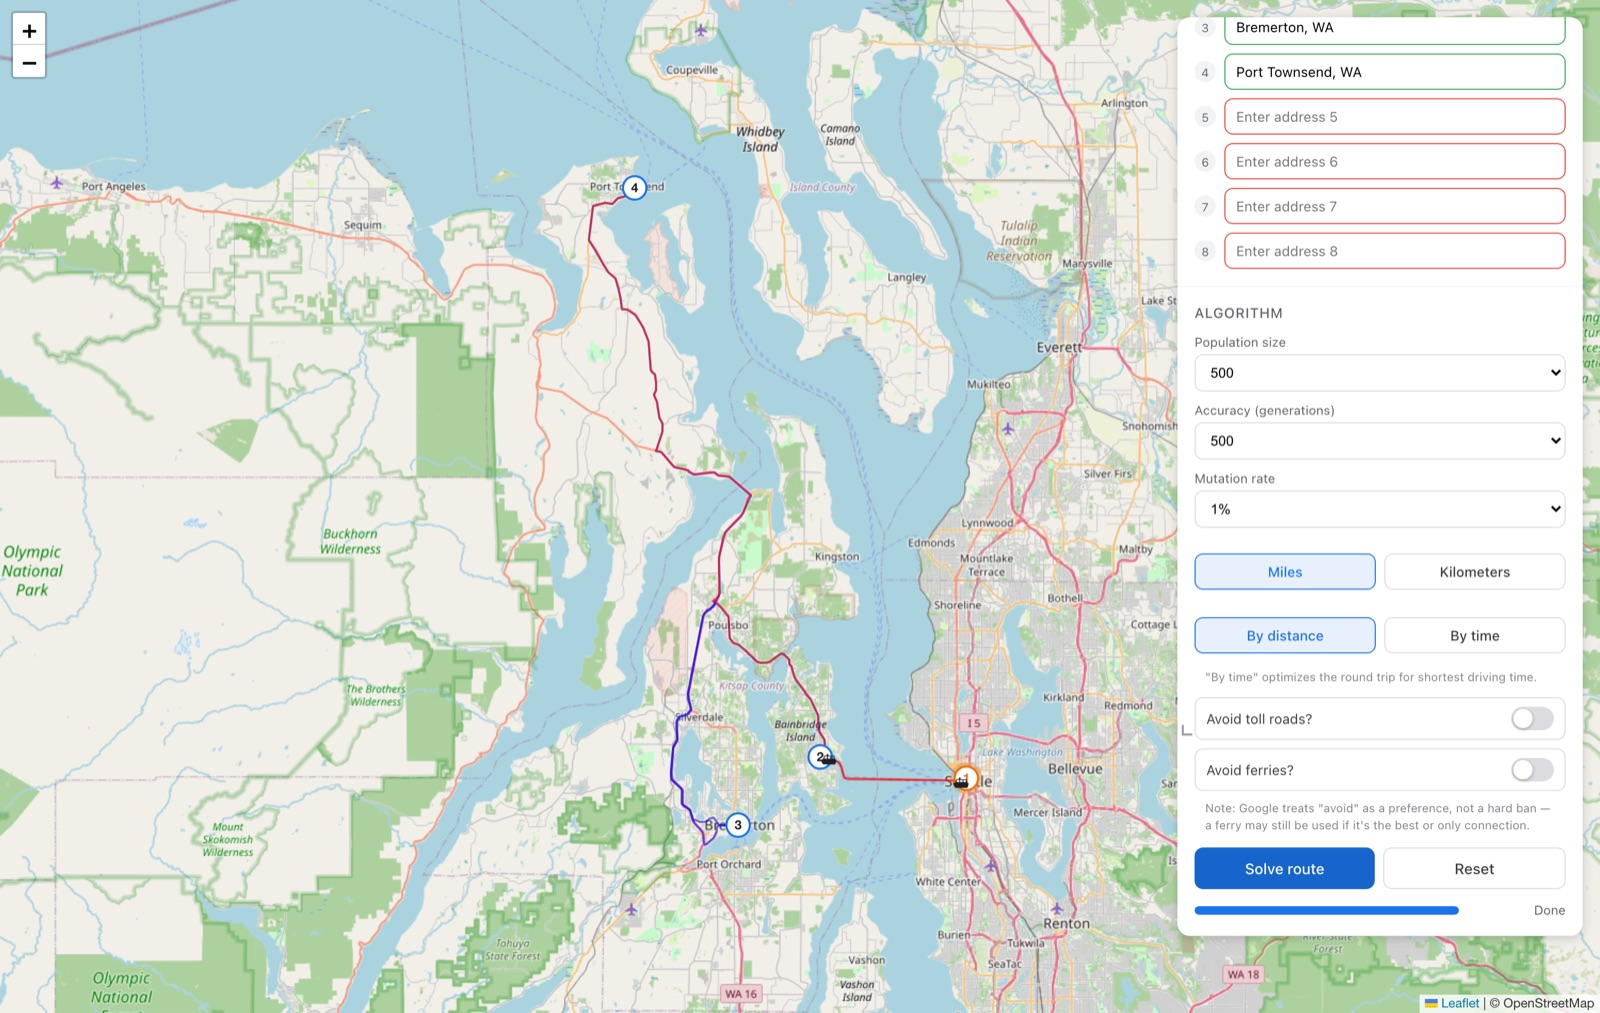
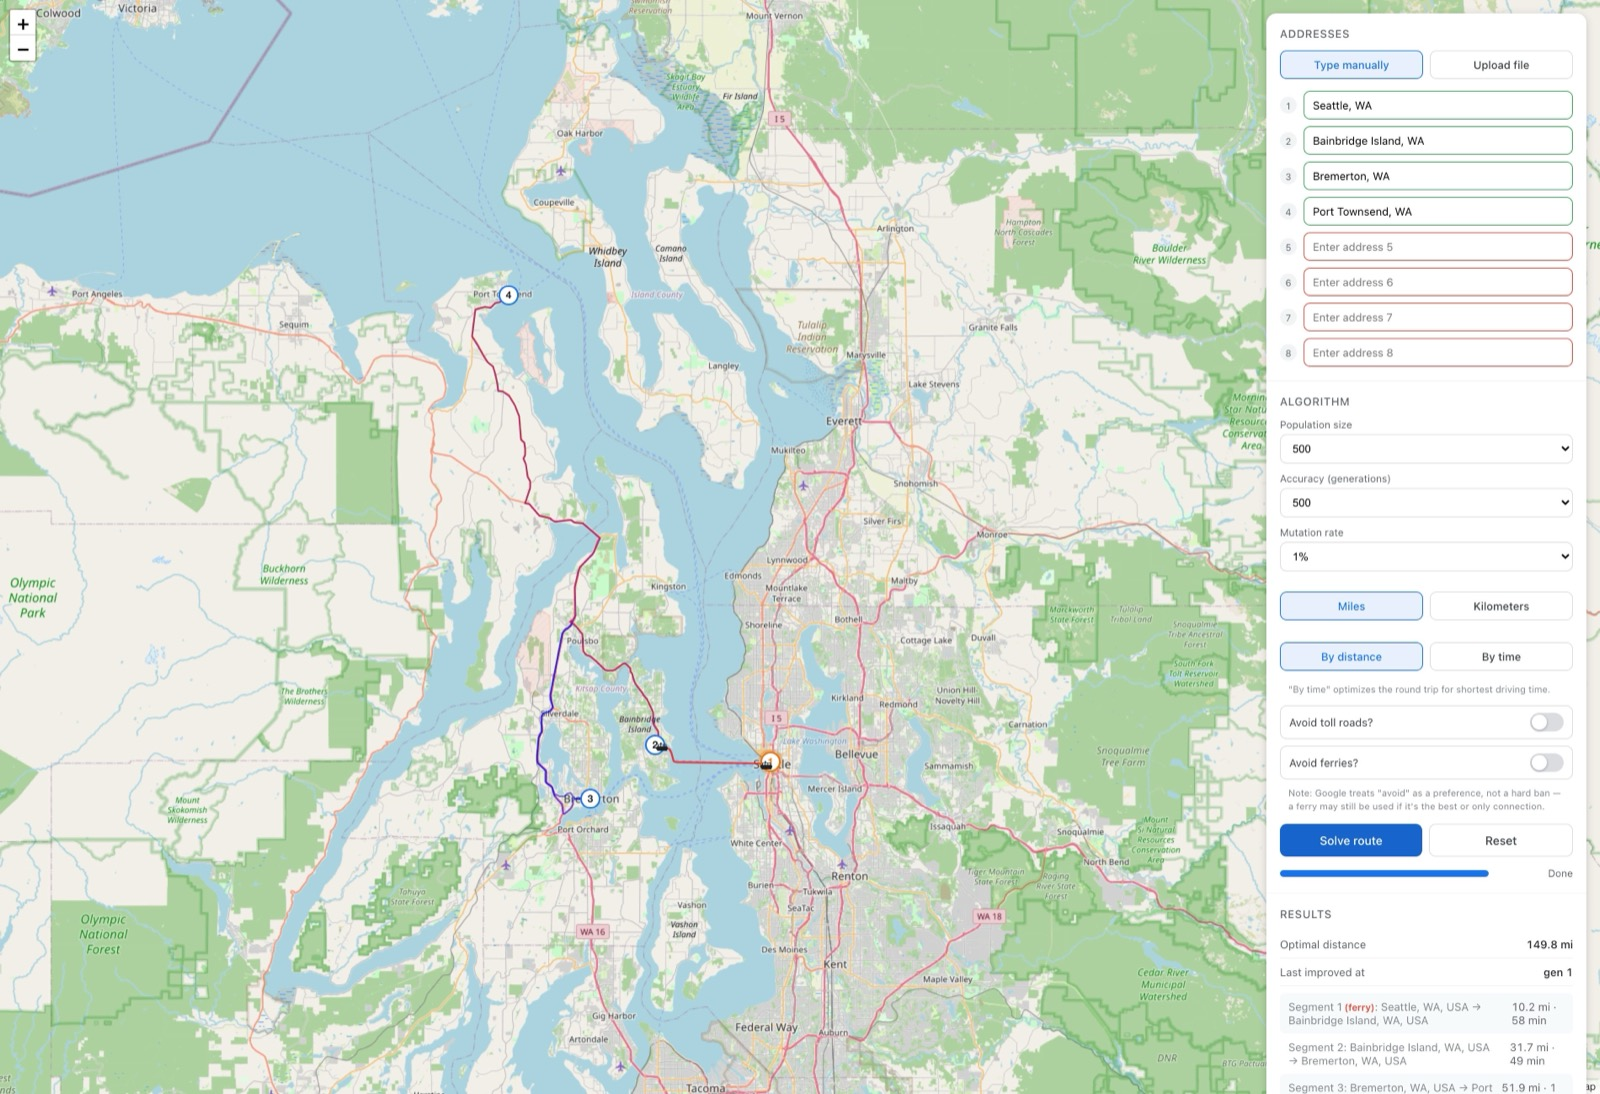
Number city markers by input order instead of tour order; refresh screenshots

diff --git a/server.js b/server.js
@@ -98,6 +98,8 @@ app.post('/addresses', async (request, response) => {
         coords[i] = cities[i].coords;
         if (!cities[i].address) {
             cities.splice(i, 1);
+        } else {
+            cities[i].originalIndex = i;
         }
     }
 
@@ -144,7 +146,7 @@ app.post('/addresses', async (request, response) => {
         let result = await solveTSP(cities, solveMatrix, N, acc, mutationRate, socketID);
         let bestRoute = result.bestOrder;
         bestGen = result.bestGen;
-        orderedCities = bestRoute.map(i => ({ lat: cities[i].coords.lat, lng: cities[i].coords.lng }));
+        orderedCities = bestRoute.map(i => ({ lat: cities[i].coords.lat, lng: cities[i].coords.lng, idx: cities[i].originalIndex }));
         console.log(bestRoute);
 
         // Get path for round trip

diff --git a/public/sketch.js b/public/sketch.js
@@ -353,11 +353,11 @@ function buildCityMarkers(coords, unreachableCoords = [], markStart = true) {
 	let k = 0;
 	for (const p of coords) {
 		if (!p) continue;
-		const cls = 'num-circle' + (markStart && k === 0 ? ' start' : '') + (isUnreachable(p) ? ' unreachable' : '');
+		const cls = 'num-circle' + (markStart && p.idx === 0 ? ' start' : '') + (isUnreachable(p) ? ' unreachable' : '');
 		markers.push(L.marker([p.lat, p.lng], {
 			icon: L.divIcon({
 				className: cls,
-				html: `<span>${k + 1}</span>`,
+				html: `<span>${(p.idx != null ? p.idx : k) + 1}</span>`,
 				iconSize: [24, 24],
 			}),
 		}));
